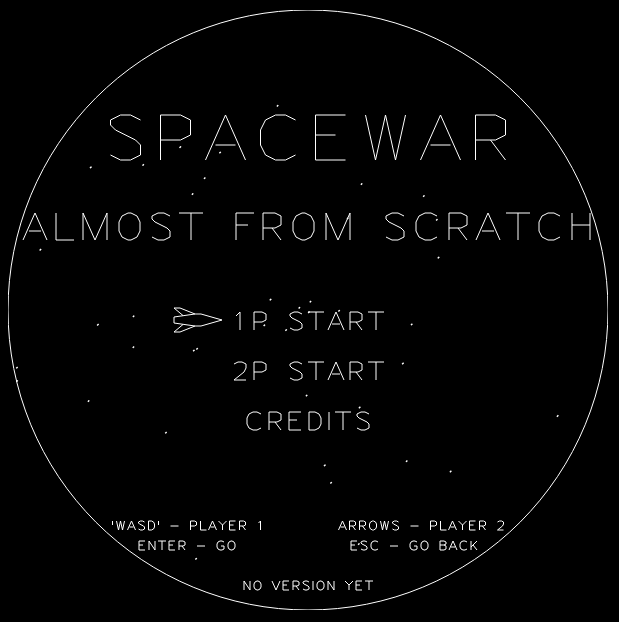
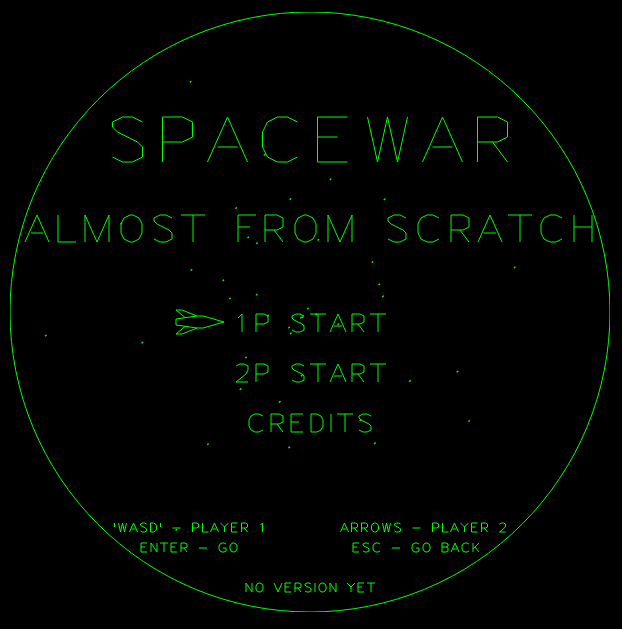
t19:30 Updated website

diff --git a/draw.js b/draw.js
@@ -29,6 +29,7 @@ const SHOT_INTERVAL = 500;
 const BLACKHOLE_SIZE = 12;
 const MAXACCEL = 1;
 const BLAST_SIZE = 50;
+const VECTOR_COLOR = "#0F0"
 const player1Vectors = [
   [[8, 0], [1, 2], [-1, 2], [-8, 1], [-8, -1], [-1, -2], [1, -2], [8, 0]],
   [[-1,  2], [-6,  4], [-8,  4], [-5,  1.5]],
@@ -41,7 +42,7 @@ const player2Vectors = [
   [[8, 0], [-8, 0]]
 ];
 
-function drawArray(array, width=1, color="#FFF") {
+function drawArray(array, width=1, color=VECTOR_COLOR) {
   array = array.slice();
   // setup style
   Game.context.lineWidth = width;
@@ -55,7 +56,7 @@ function drawArray(array, width=1, color="#FFF") {
   Game.context.stroke();
 }
 
-function drawCircle(x, y, radius, width=1, color="#FFF") {
+function drawCircle(x, y, radius, width=1, color=VECTOR_COLOR) {
   // setup style
   Game.context.lineWidth = width;
   Game.context.strokeStyle = color;
@@ -65,7 +66,7 @@ function drawCircle(x, y, radius, width=1, color="#FFF") {
   Game.context.stroke();
 }
 
-function drawPoint(x, y, width=1, color="#FFF") {
+function drawPoint(x, y, width=1, color=VECTOR_COLOR) {
   drawArray([[x, y], [x+width, y+width]], width+1)
 }
 
@@ -98,7 +99,7 @@ function phraseLength(phrase, size) {
   return lastPosition*size;
 }
 
-function writeText(x, y, text, size=1, width=1, color="#FFF") {
+function writeText(x, y, text, size=1, width=1, color=VECTOR_COLOR) {
   let lastPosition = 0;
   text.split("").forEach((letter) => {
       let [coordinates, finalPosition] = parseLetter(letter.toUpperCase());
@@ -110,7 +111,7 @@ function writeText(x, y, text, size=1, width=1, color="#FFF") {
   });
 }
 
-function writeCentered(y, text, size=1, width=1, color="#FFF") {
+function writeCentered(y, text, size=1, width=1, color=VECTOR_COLOR) {
   const textLength = phraseLength(text, size);
   writeText(Game.width/2-textLength/2, y, text, size, width, color);
 }

diff --git a/index.html b/index.html
@@ -28,6 +28,7 @@ along with this program.  If not, see <http://www.gnu.org/licenses/>.
     <meta property="og:type" content="website" />
     <meta property="og:url" content="https://armlessjohn404.github.io/spacewar-almost-from-scratch/" />
     <meta property="og:image" content="https://github.com/ArmlessJohn404/spacewar-almost-from-scratch/raw/master/assets/opengraph.png" />
+    <meta property="og:description" content="This is an attempt of reproducing the game spacewar using modern programming languages." />
     <link rel="stylesheet" href="styles.css">
     <script src="script.js"></script>
     <script src="gameloop.js"></script>

diff --git a/styles.css b/styles.css
@@ -19,7 +19,7 @@ along with this program.  If not, see <http://www.gnu.org/licenses/>.
 */
 html, body {
   background-color: #000;
-  color: #FFF;
+  color: #0F0;
   font-family: monospace;
   text-align: center;
   margin:0;
@@ -51,6 +51,6 @@ html, body {
 }
 
 a:link, a:visited, a:hover, a:active {
-  color: #FFF;
+  color: #0F0;
   text-decoration: underline;
 }

diff --git a/gameloop.js b/gameloop.js
@@ -19,7 +19,7 @@ along with this program.  If not, see <http://www.gnu.org/licenses/>.
 */
 "use strict";
 
-const VERSION = "no version yet";
+const VERSION = "v1.0-beta";
 // keyboard handler
 let Key = {
   _pressed: {},

diff --git a/README.md b/README.md
@@ -257,3 +257,6 @@ Game.playSoundX = soundFactory(soundX, 0, 500);
 Game.playSoundX();
 ```
 Thanks to `meroleroman7`, `Shaun105`, `jeremysykes` and `ProjectsU012` for the sound assets.
+
+## 19:30 - Improve webpage
+I added some [Open Graph](http://ogp.me/) tags to make it more pleasing when sharing. Also, changed the base color to green, more similar to the old CRT displays. I can't think of anything else to change right now.
